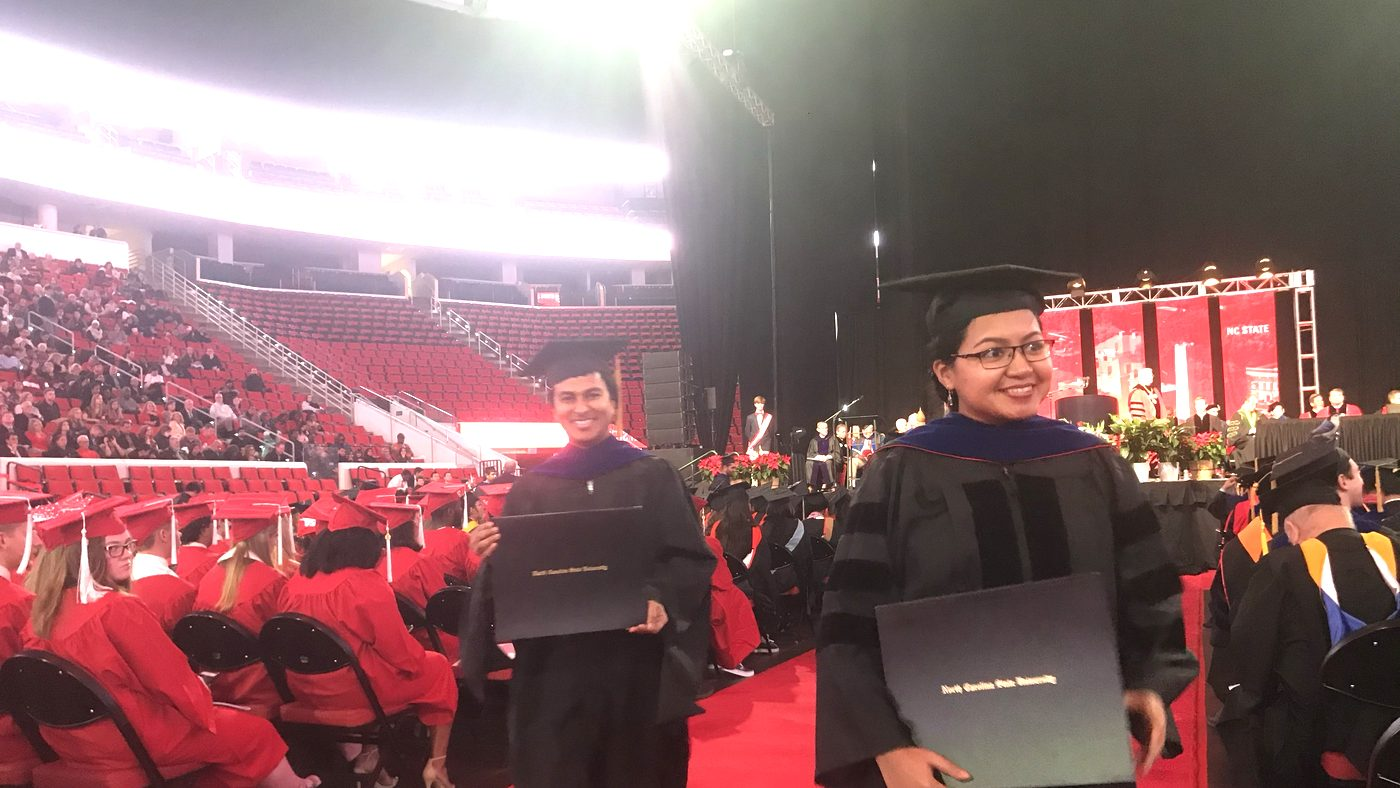
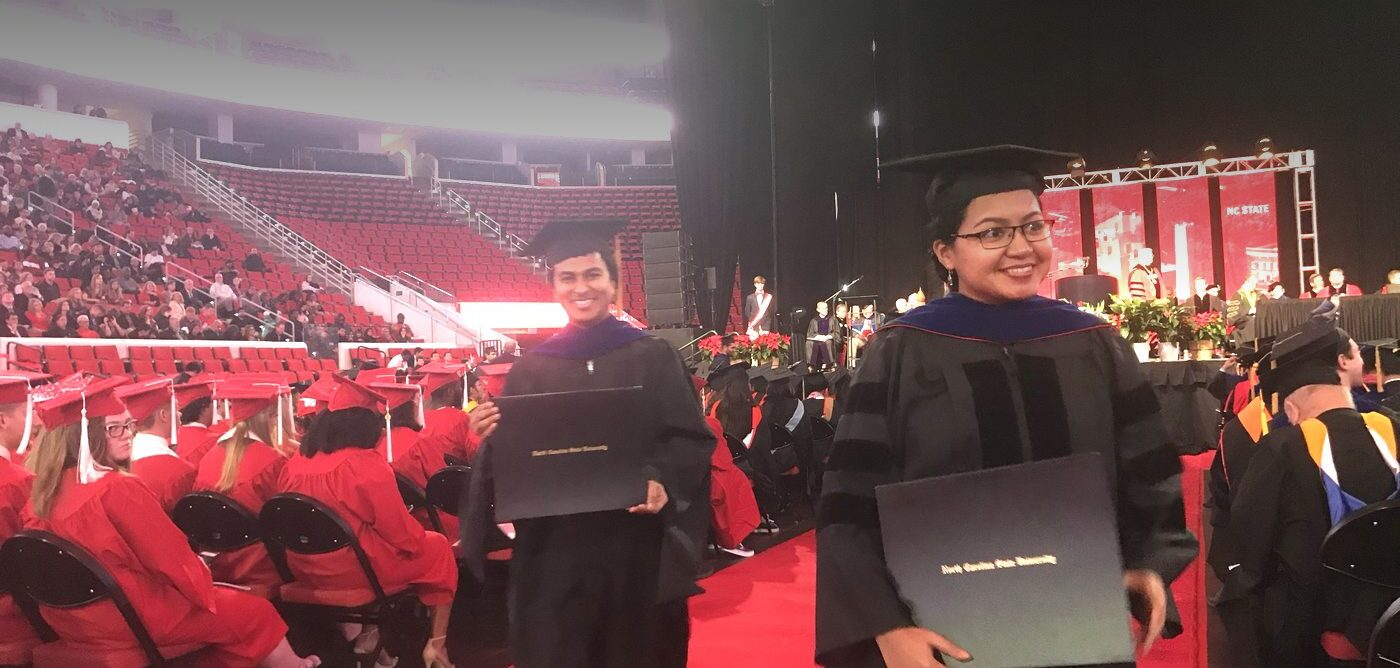
dalrigh life

diff --git a/pick.md b/pick.md
@@ -1,6 +1,7 @@
 ---
 title: Pick Your Professor
-nav_order: 6.5
+parent: Student Life
+nav_order: 2
 ---
 
 <a class="hiring" href="https://jobs.ncsu.edu/postings/237085"
@@ -28,7 +29,7 @@ flowchart LR
   C -->|it has bugs, even<br>the AI libraries| MD[<b>Marcelo D'Amorim</b><br>testing &<br>reliability]
   C -->|can we trust what<br>the LLM wrote?| JP[<b>John-Paul Ore</b><br>dependable<br>LLM code]
   D -->|make it safe:<br>backdoors, privacy| BX[<b>Bowen Xu</b><br>LLM security<br>& code AI]
-  D -->|make it tiny &<br>explainable| TM[<b>Tim Menzies</b><br>frugal AI &<br>optimization]
+  D -->|make it tiny, explainable,<br>fair to all?| TM[<b>Tim Menzies</b><br>frugal AI &<br>optimization]
 ```
 
 Found your person? Email, bio, and lab link: [faculty](faculty.html).

diff --git a/pubs.md b/pubs.md
@@ -1,6 +1,6 @@
 ---
 title: News & Publications
-nav_order: 8
+nav_order: 4.5
 ---
 
 <a class="hiring" href="https://jobs.ncsu.edu/postings/237085"

diff --git a/keynotes.md b/keynotes.md
@@ -1,6 +1,6 @@
 ---
 title: Keynotes & Talks
-nav_order: 7
+nav_order: 1.5
 ---
 
 <a class="hiring" href="https://jobs.ncsu.edu/postings/237085"

diff --git a/students.md b/students.md
@@ -1,6 +1,7 @@
 ---
 title: Student Life
 nav_order: 5
+has_children: true
 ---
 
 <a class="hiring" href="https://jobs.ncsu.edu/postings/237085"
